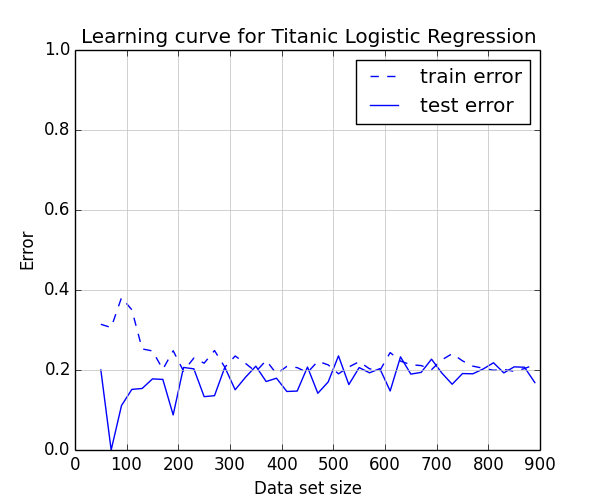
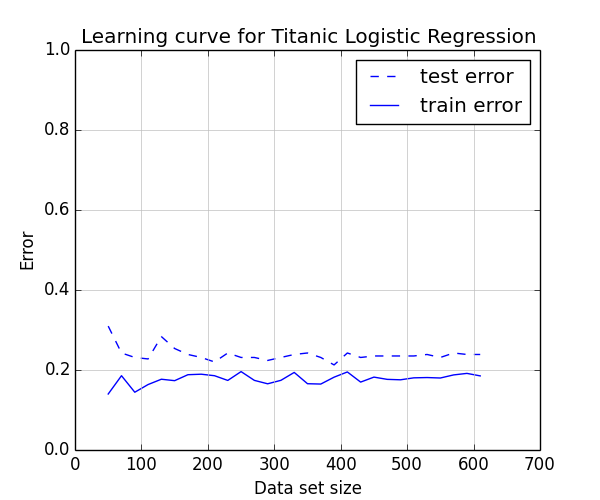
fixing learning curve for logistic regression

Changed region(s): [[0.15, 0.12, 0.9, 0.96], [0.72, 0.12, 0.87, 0.24], [0.87, 0.9, 0.93, 0.96]]

diff --git a/titanic/03_logistic_regression.py b/titanic/03_logistic_regression.py
@@ -7,6 +7,7 @@ import scipy as sp
 import pandas as pan
 import sklearn.linear_model, sklearn.preprocessing
 from sklearn.cross_validation import KFold, train_test_split
+from sklearn.utils import shuffle
 from matplotlib import pylab
 
 def prepareFeatures(dataframe, median_ages=None):
@@ -87,12 +88,14 @@ datasizes = np.arange(50, len(X), 20)
 
 train_errors = []
 cv_errors = []
-for datasize in datasizes:
-	X_train, X_cv, y_train, y_cv = train_test_split(X[:datasize], Y[:datasize], test_size=0.7)
+X_train, X_cv, y_train, y_cv = train_test_split(X, Y, test_size=0.3)
+for datasize in np.arange(50, len(X_train), 20):
 	lr = sklearn.linear_model.LogisticRegression(C=best_C)
-	lr.fit(X_train,y_train)
-	train_errors.append(1 - lr.score(X_train, y_train))
+	subX, subY = shuffle(X_train, y_train, n_samples = datasize)
+	lr.fit(subX, subY)
+	train_errors.append(1 - lr.score(subX, subY))
 	cv_errors.append(1 - lr.score(X_cv, y_cv))
+
 
 def plot_bias_variance(data_sizes, train_errors, test_errors, title):
     pylab.figure(num=None, figsize=(6, 5))
@@ -102,11 +105,11 @@ def plot_bias_variance(data_sizes, train_errors, test_errors, title):
     pylab.title(title)
     pylab.plot(
         data_sizes, test_errors, "--", data_sizes, train_errors, "b-", lw=1)
-    pylab.legend(["train error", "test error"], loc="upper right")
+    pylab.legend(["test error", "train error"], loc="upper right")
     pylab.grid(True, linestyle='-', color='0.75')
     pylab.savefig('charts/logreg_bias_variance.png')
 
-plot_bias_variance(datasizes, train_errors, cv_errors, "Learning curve for Titanic Logistic Regression")
+plot_bias_variance(np.arange(50, len(X_train), 20), train_errors, cv_errors, "Learning curve for Titanic Logistic Regression")
 # the curve shows we have high bias (we don't really fit the training set much better than the cross-validation set)
 #  ==> we need a more complex model (non-linear?)
 lr = sklearn.linear_model.LogisticRegression(C = best_C)
